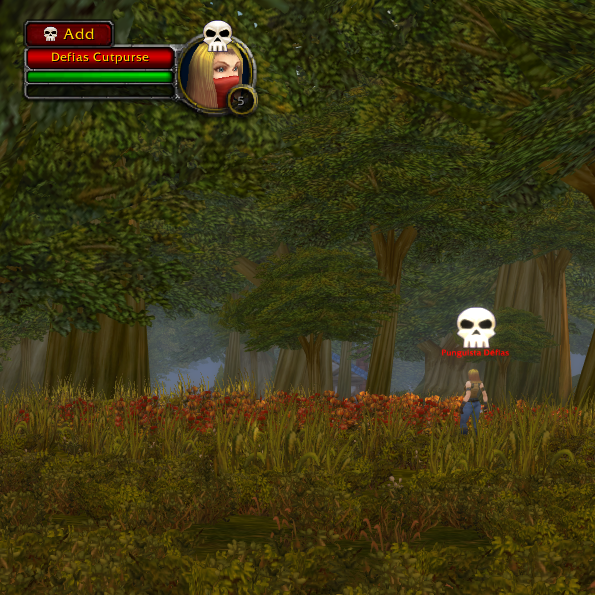
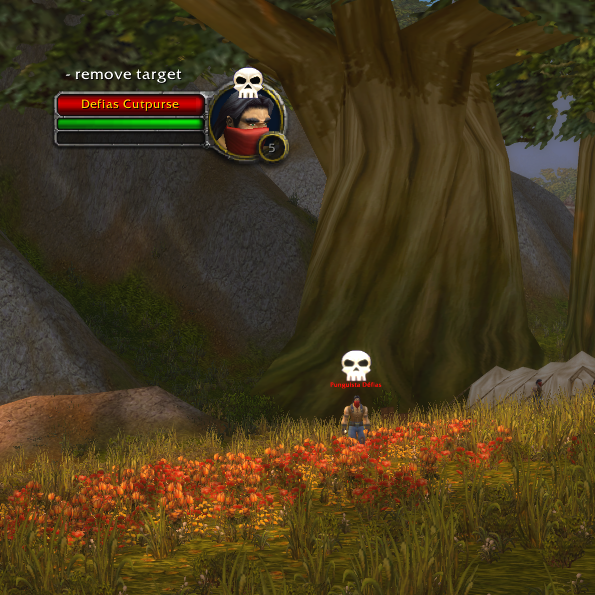
Update README and project images

diff --git a/README.md b/README.md
@@ -40,7 +40,7 @@ which is the framework used to build this addon.
 
 ## How to use this addon
 
-![A Defias being targetted](https://i.imgur.com/tgeFd5t.png "A Defias being targetted")
+![A Defias being targetted](https://i.imgur.com/2IYMZG0.png "A Defias being targetted")
 
 * Install and enable the addon
 * Once you log in, the addon will load the default target list and it's
@@ -97,8 +97,6 @@ target lists, so players can have different lists for different
 situations
 * **Better in-combat support:** The addon will disable the target rotation
 system when the player is in combat, when macrons can't be updated
-* **Better target button:** The target frame button will have a better
-visual representation
 * **Settings:** Will allow customizing the addon's behavior, also with
 a graphical interface
 * **Select available markers:** The addon will allow players to select
@@ -142,7 +140,9 @@ versions.
 
 ## Changelog
 
-#### yyyy.mm.dd - version 1.3.1
+#### 2024.05.28 - version 1.3.1
+
+* The target frame button now has a better visual representation, less intrusive
 
 ### 2024.05.23 - version 1.3.0
 
